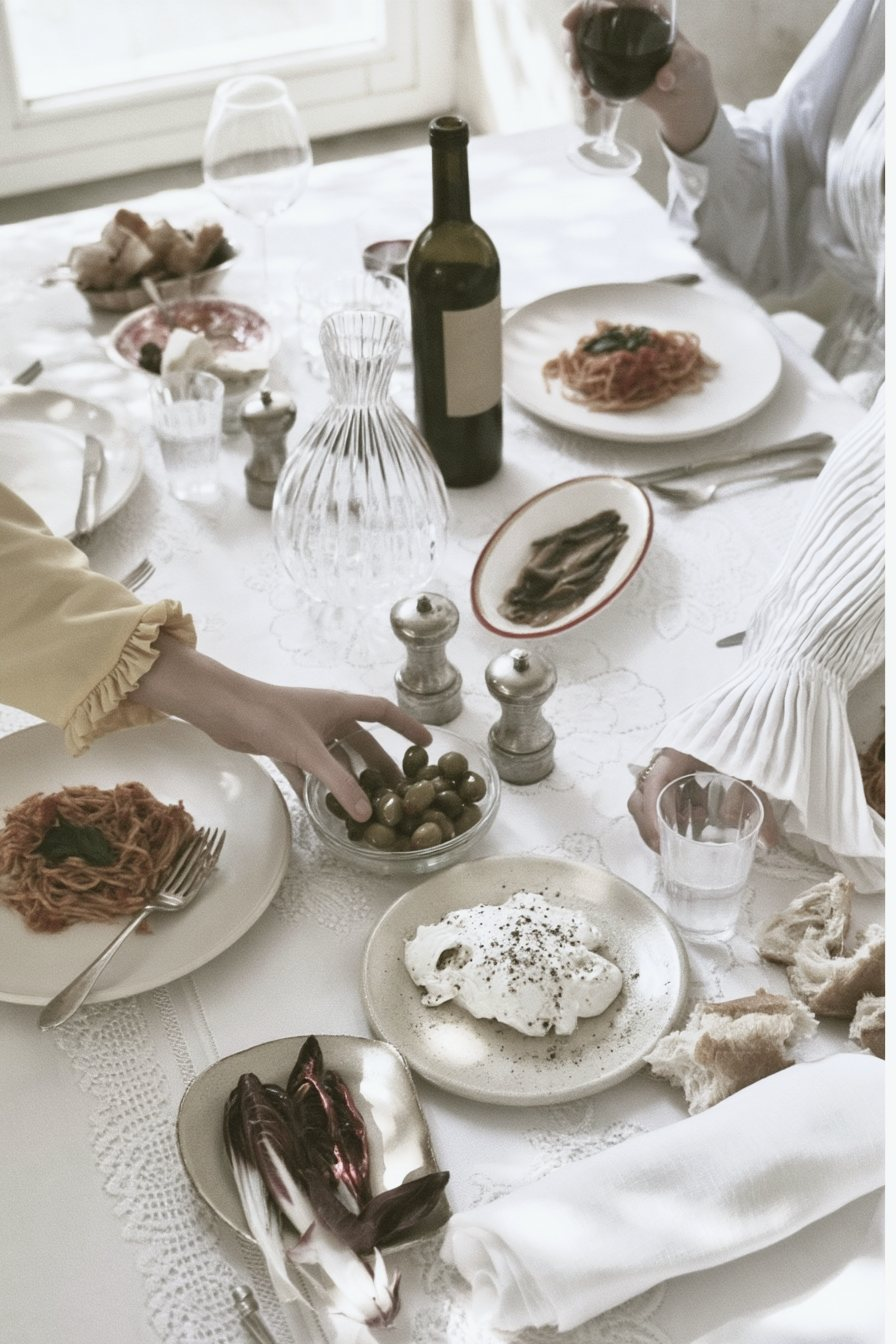
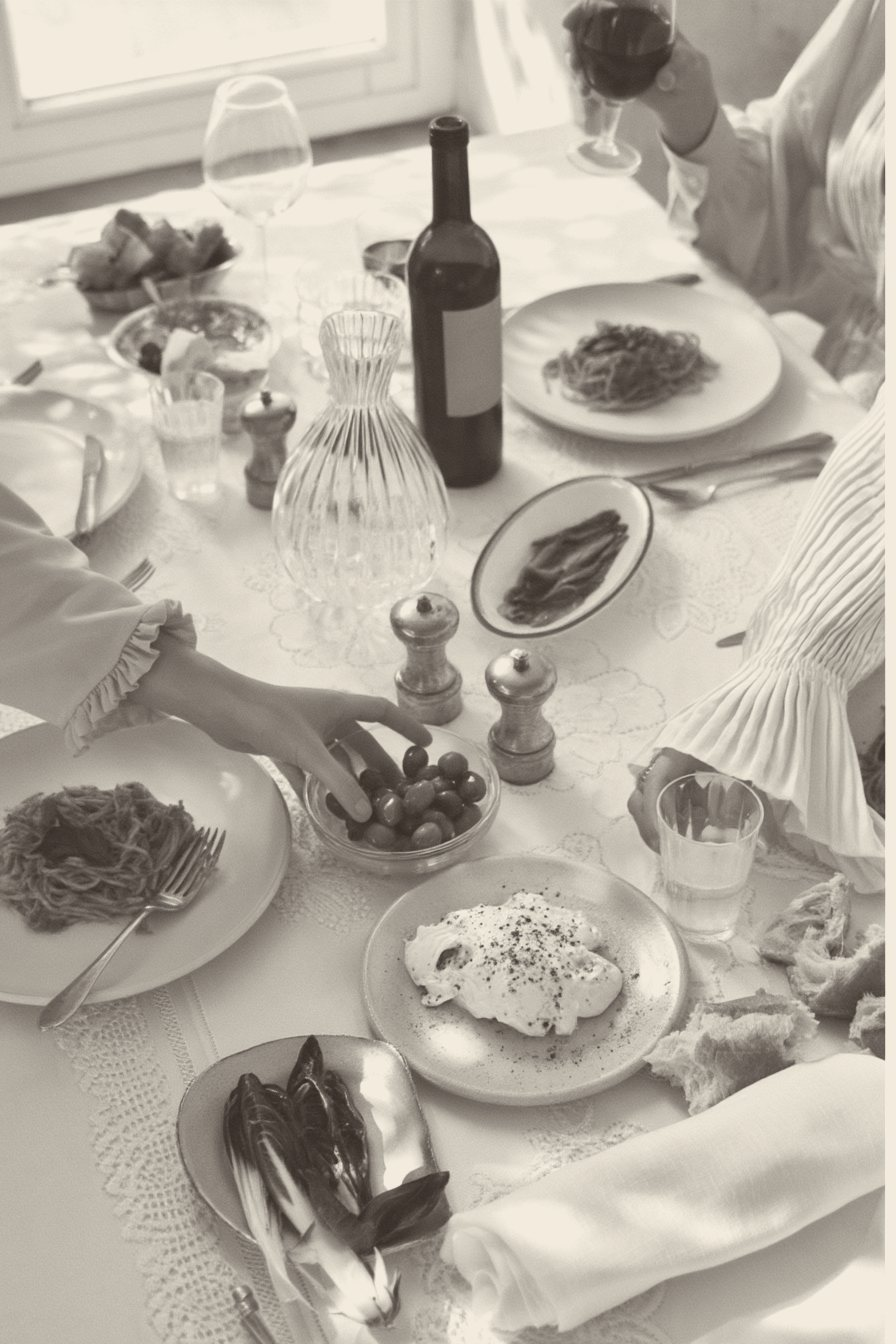
Add files via upload

diff --git a/index.html b/index.html
@@ -163,8 +163,8 @@ figure{margin:0}
   object-fit:cover;object-position:50% 46%}
 @media (max-width:640px){
   .venue-pair{grid-template-columns:1fr}
-  .venue-pair .wide{aspect-ratio:auto}
-  .venue-pair .tall{aspect-ratio:4/3}
+  .venue-pair .wide{display:none}
+  .venue-pair .tall{aspect-ratio:3/4}
 }
 figure img{width:100%;height:auto}
 figcaption{
@@ -236,6 +236,8 @@ figcaption{
 .price dt{color:var(--ink-soft)}
 .price dd{margin:0;font-variant-numeric:tabular-nums}
 .price .total{font-family:var(--sans);font-size:26px;line-height:1.2}
+.price .total i{font-style:normal;font-size:13.5px;color:var(--ink-soft);
+  white-space:nowrap;margin-left:7px;vertical-align:.34em}
 
 /* ---------- form ---------- */
 form{margin-top:30px;max-width:var(--text)}
@@ -279,9 +281,11 @@ input:focus,select:focus,textarea:focus{outline:none;border-color:var(--wine);bo
 
 /* ---------- about ---------- */
 .team{list-style:none;margin:26px 0 0;padding:0;display:grid;gap:18px}
-.team li{display:grid;grid-template-columns:180px 1fr;gap:18px;font-size:15.5px;align-items:baseline}
+.team li{display:grid;grid-template-columns:215px 1fr;gap:18px;font-size:15.5px;align-items:baseline}
 .team b{font-weight:400;font-family:var(--sans);font-size:18px}
 .team span{color:var(--ink-soft)}
+.team a{color:inherit;border-bottom-color:var(--rule)}
+.team a:hover{color:var(--wine);border-bottom-color:var(--wine)}
 
 @media (max-width:640px){
   .cols,.grid2,.dates{grid-template-columns:1fr}
@@ -355,7 +359,7 @@ input:focus,select:focus,textarea:focus{outline:none;border-color:var(--wine);bo
       </li>
       <li class="part">
         <div class="age">35<span>Возвращение</span></div>
-        <div><p>Я смотрю на тело, которое столько раз пыталась запомнить в одном состоянии. Но оно там не осталось. И я тоже.</p><p class="dish"><span class="dish-label">Подача:</span> Хлеб · масло · соль · томат · сыр · игристое · паштет</p></div>
+        <div><p>Я смотрю на тело, которое столько раз пыталась запомнить в одном состоянии. Но оно там не осталось. И я тоже.</p><p class="dish"><span class="dish-label">Подача:</span> Хлеб · масло · соль · томат · сыр · игристое · паштет · тарт с карамелизованным луком шалот</p></div>
       </li>
     </ul>
 
@@ -396,13 +400,13 @@ input:focus,select:focus,textarea:focus{outline:none;border-color:var(--wine);bo
     <div class="cols" style="align-items:start">
       <div>
         <dl class="price">
-          <dt>Участие</dt><dd class="total">350 €</dd>
-          <dt>Бронь онлайн</dt><dd>100 €</dd>
+          <dt>Участие</dt><dd class="total">350 €<i>с человека</i></dd>
+          <dt>Невозвратная бронь</dt><dd>100 €</dd>
           <dt>В день ужина</dt><dd>250 €</dd>
         </dl>
       </div>
       <div>
-        <p>Место считается забронированным после оплаты 100 €. Ссылка на оплату открывается сразу после заявки. Остальные 250 € — в день ужина.</p>
+        <p>Место считается забронированным после оплаты невозвратной брони 100 € за человека. Остальные 250 € — в день ужина. Ужин проходит на русском языке.</p>
         <p>Часть выручки мы отправляем в поддержку женщин, заключённых по политическим делам.</p>
       </div>
     </div>
@@ -477,9 +481,9 @@ input:focus,select:focus,textarea:focus{outline:none;border-color:var(--wine);bo
     <p>Часть выручки каждого вечера идёт на поддержку женщин, заключённых по политическим делам.</p>
     <p class="eyebrow" style="margin:38px 0 0">Авторки ужина «Возвращение»</p>
     <ul class="team">
-      <li><b>Вика Привалова</b><span>создательница и режиссёрка проекта Stories.Savored</span></li>
-      <li><b>Кристина Черняховская</b><span>шеф-повар и гастрономический куратор вечера</span></li>
-      <li><b>Аня Салова</b><span>продюсер</span></li>
+      <li><b><a href="https://www.instagram.com/vikasupergood/" target="_blank" rel="noopener">Вика Привалова</a></b><span>создательница и режиссёрка проекта Stories.Savored</span></li>
+      <li><b><a href="https://www.instagram.com/dailyrecipes_kris/" target="_blank" rel="noopener">Кристина Черняховская</a></b><span>шеф-повар и гастрономический куратор вечера</span></li>
+      <li><b><a href="https://www.instagram.com/fsalova/" target="_blank" rel="noopener">Аня Салова</a></b><span>продюсер</span></li>
     </ul>
   </section>
 
@@ -528,7 +532,7 @@ const CONFIG = {
      Если когда-нибудь понадобятся разные ссылки — впишите их
      в строки с датами, они имеют приоритет над all. */
   stripe: {
-    all: "",
+    all: "https://book.stripe.com/28E7sKa5lcHt5BDcitaZi00",
     "2 октября 2026, пятница": "",
     "3 октября 2026, суббота": ""
   },
